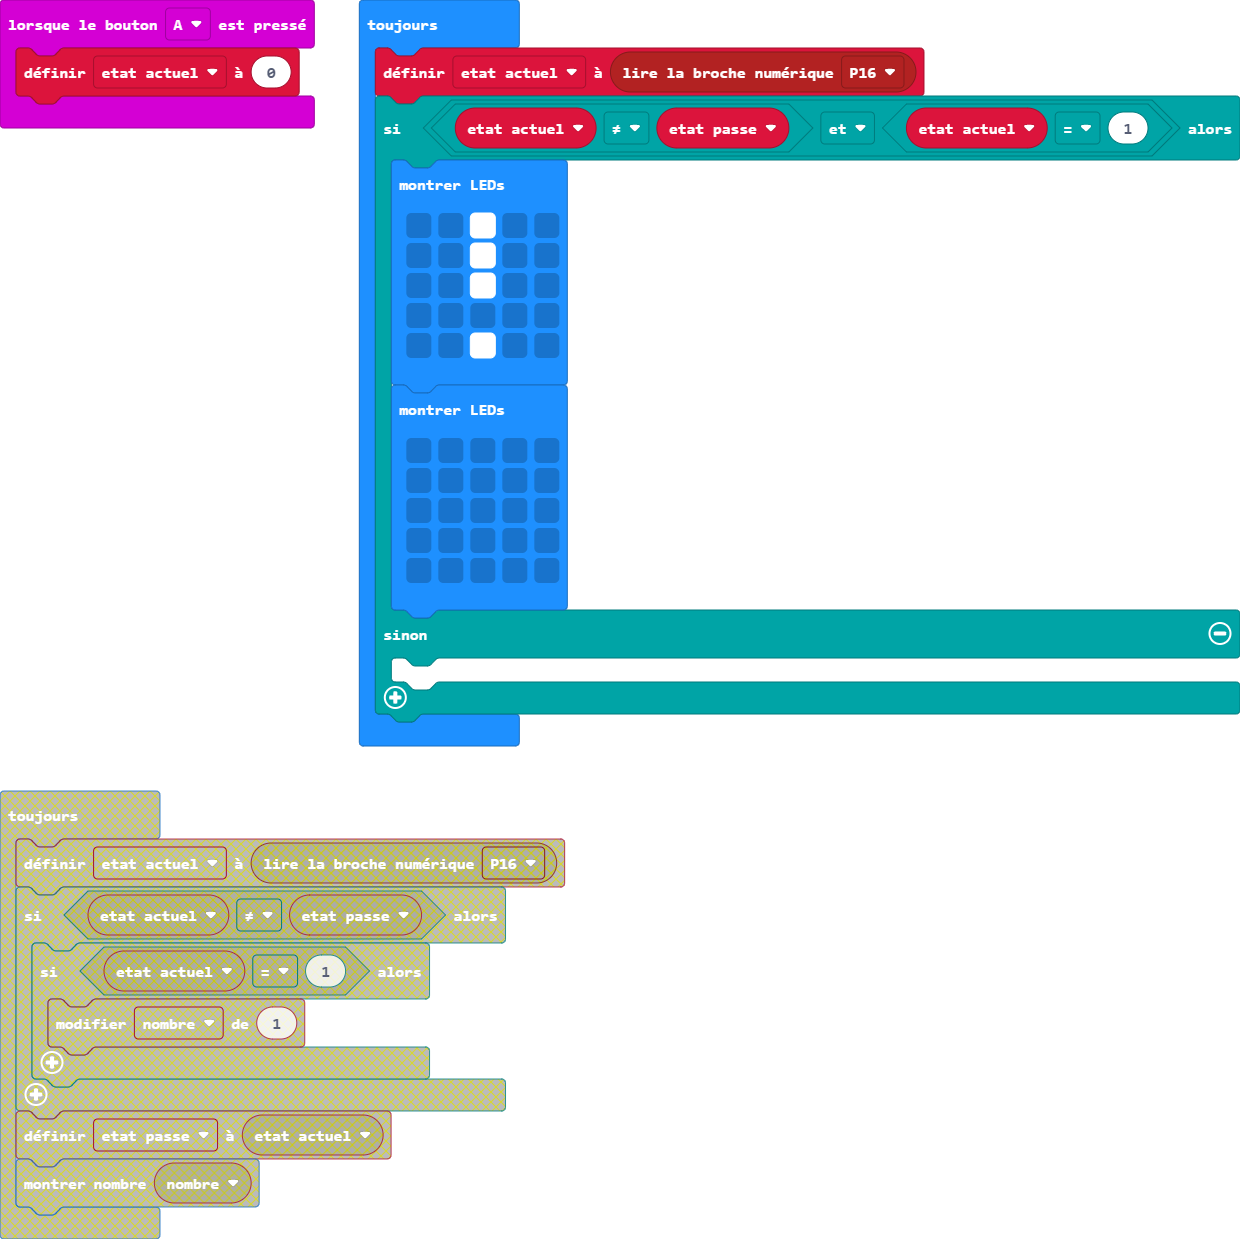
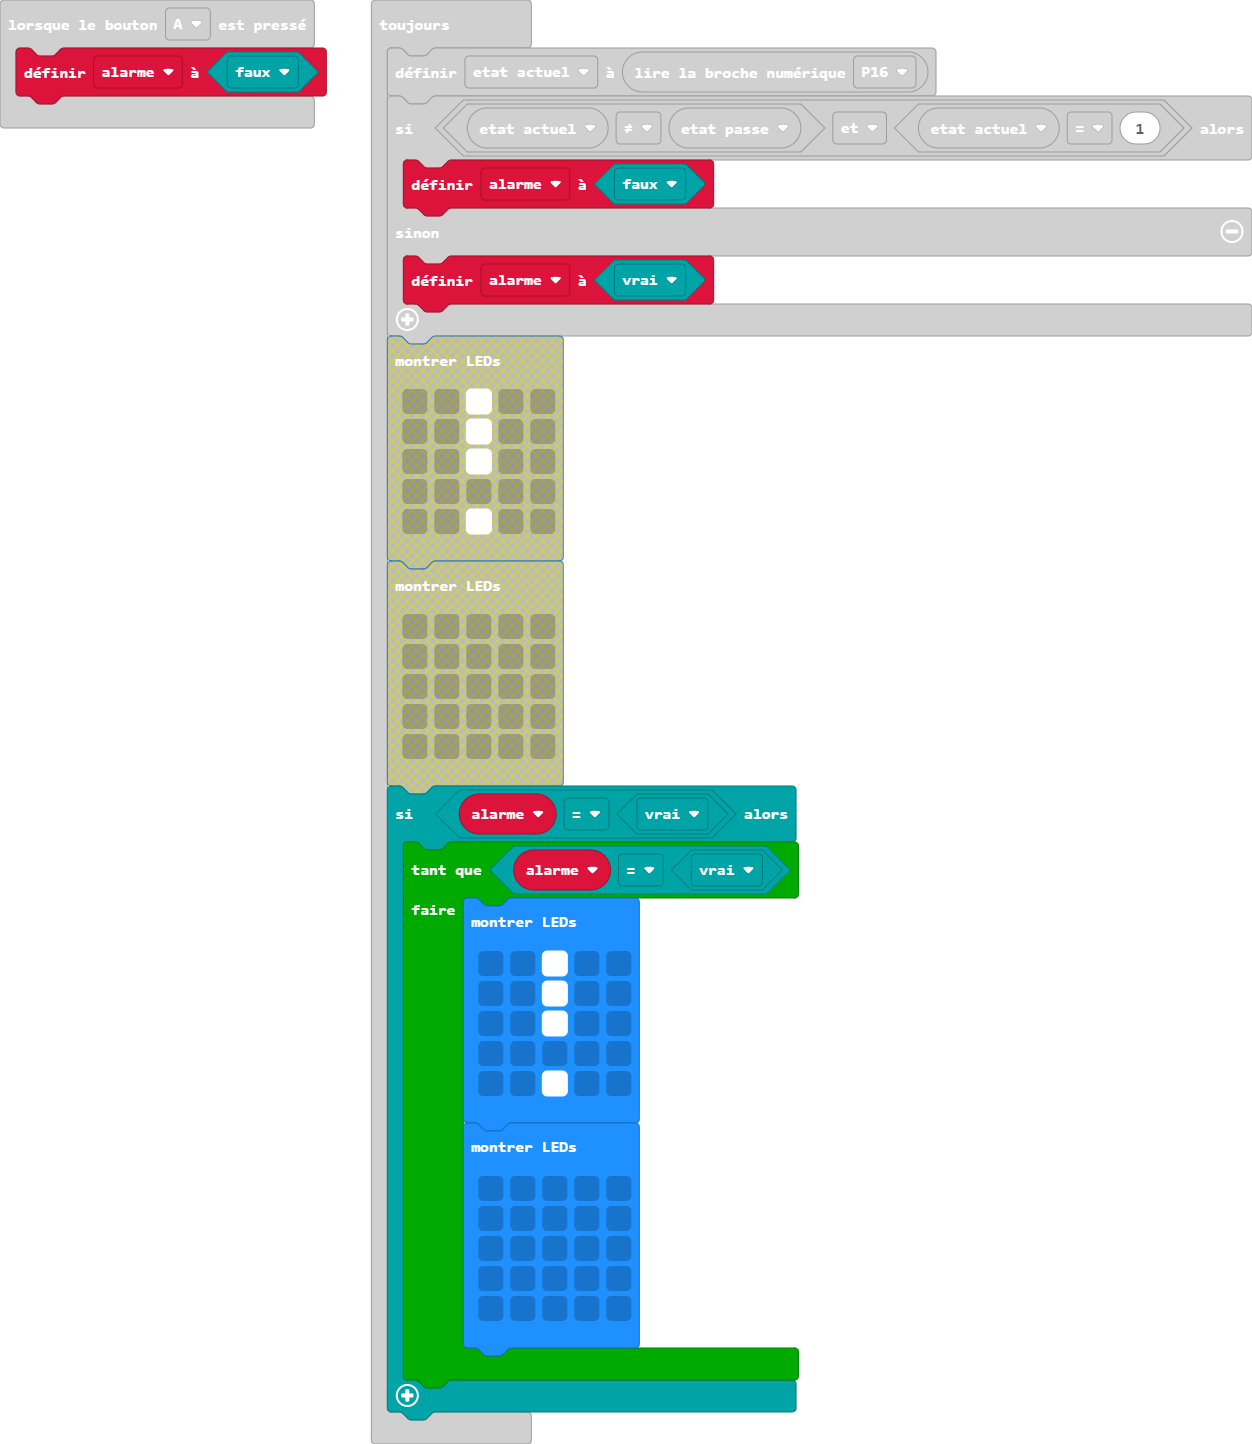
Mise à jour main.blocks, main.ts

diff --git a/main.ts b/main.ts
@@ -1,28 +1,33 @@
 input.onButtonPressed(Button.A, function () {
-    etat_actuel = 0
+    alarme = false
 })
-let etat_actuel = 0
+let alarme = false
 let nombre = 0
-etat_actuel = 0
+let etat_actuel = 0
 let etat_passe = 0
 basic.forever(function () {
     etat_actuel = pins.digitalReadPin(DigitalPin.P16)
     if (etat_actuel != etat_passe && etat_actuel == 1) {
-        basic.showLeds(`
-            . . # . .
-            . . # . .
-            . . # . .
-            . . . . .
-            . . # . .
-            `)
-        basic.showLeds(`
-            . . . . .
-            . . . . .
-            . . . . .
-            . . . . .
-            . . . . .
-            `)
+        alarme = false
     } else {
-    	
+        alarme = true
+    }
+    if (alarme == true) {
+        while (alarme == true) {
+            basic.showLeds(`
+                . . # . .
+                . . # . .
+                . . # . .
+                . . . . .
+                . . # . .
+                `)
+            basic.showLeds(`
+                . . . . .
+                . . . . .
+                . . . . .
+                . . . . .
+                . . . . .
+                `)
+        }
     }
 })
